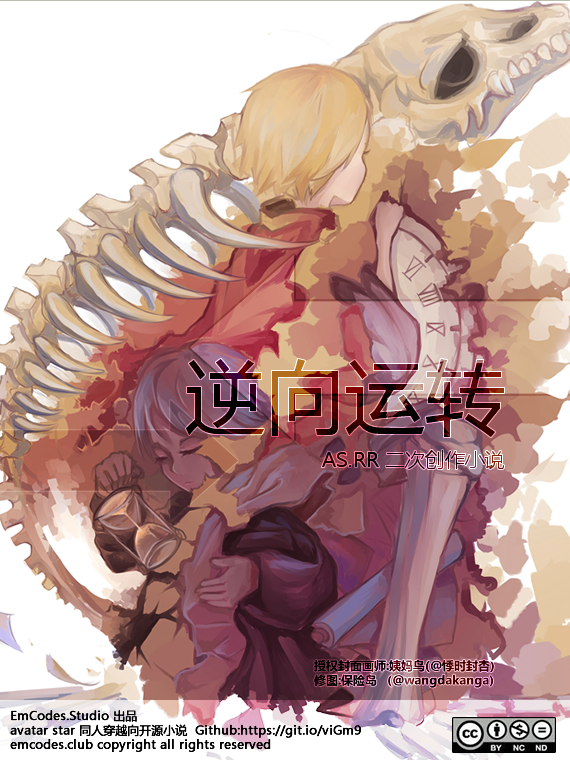
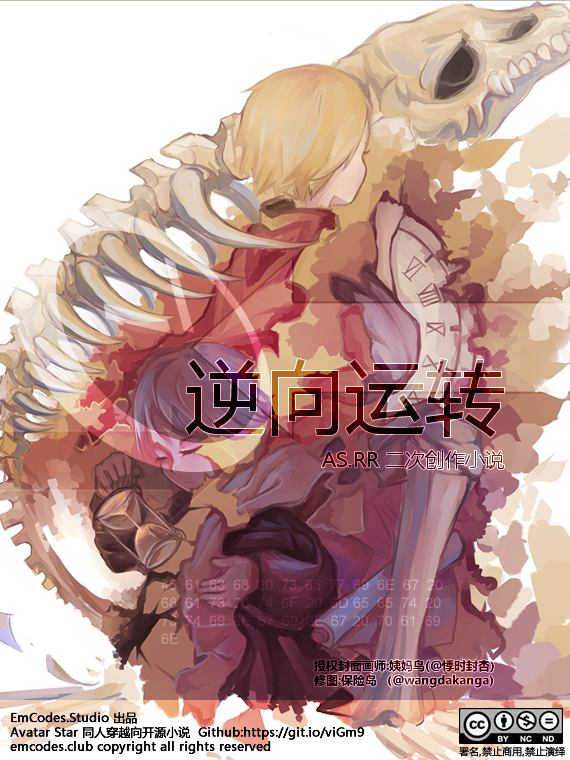
修改封面图和readme文件
修改封面图一些细节,修改readme语病

diff --git a/README.md b/README.md
@@ -2,7 +2,7 @@
 
 **《逆向运转》** 是EmCodes Club出品的Avatar Star游戏二次创作小说
 
-- 在百度贴吧.进行连载,构思和创作思路以及过程中的修改在此开源.
+- 在百度贴吧.进行连载,构思和创作思路以及在创作过程中的修改在此开源.
 
 - 本文章部分使用Avatar Star设定,部分使用EmCodes设定,我们会尽量按照原作来写,但不能保证100%符合原作设定,这是不可能的.强迫症者请绕道,EmCodes招收成员.共同创作.
 
@@ -13,6 +13,8 @@
   
 
 **本人使用Github作为小说托管,希望朋友能了解代码版本控制工具,了解开源,习惯使用一些英文的优秀软件.**
+
+
 
 
 
